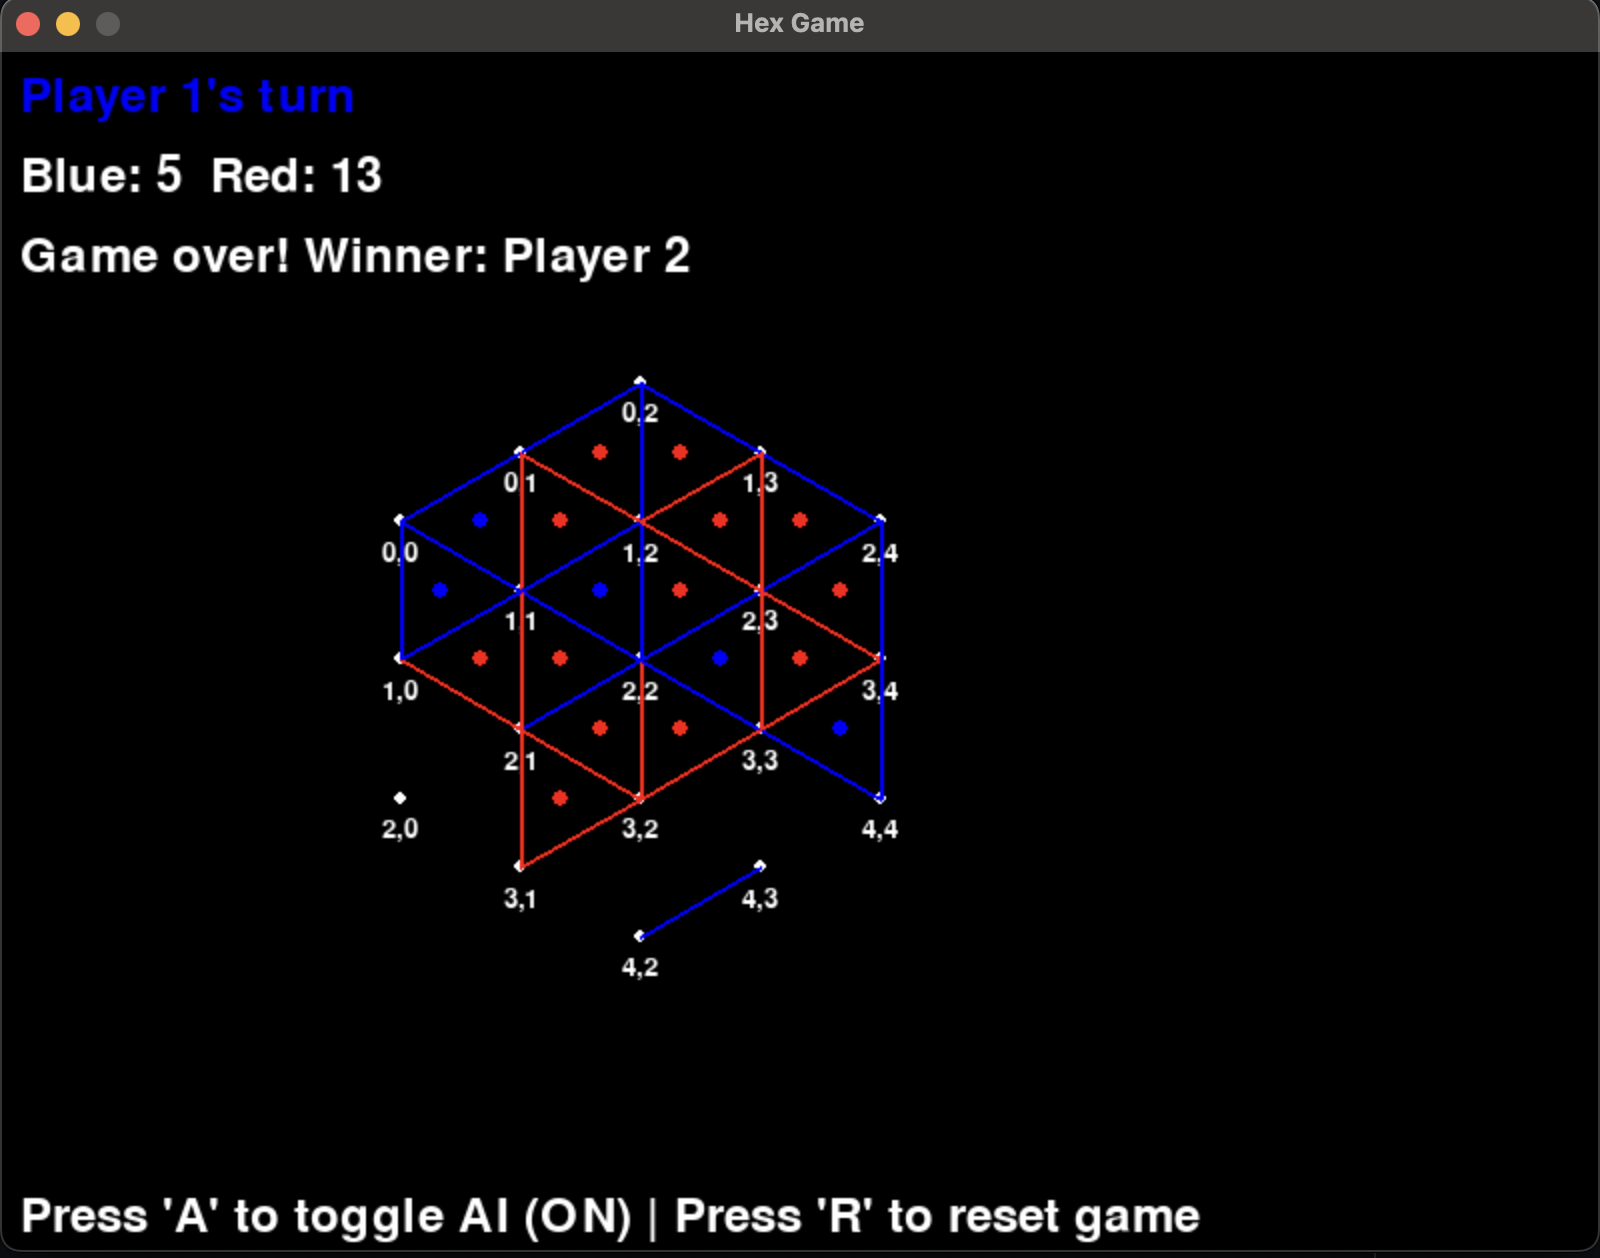
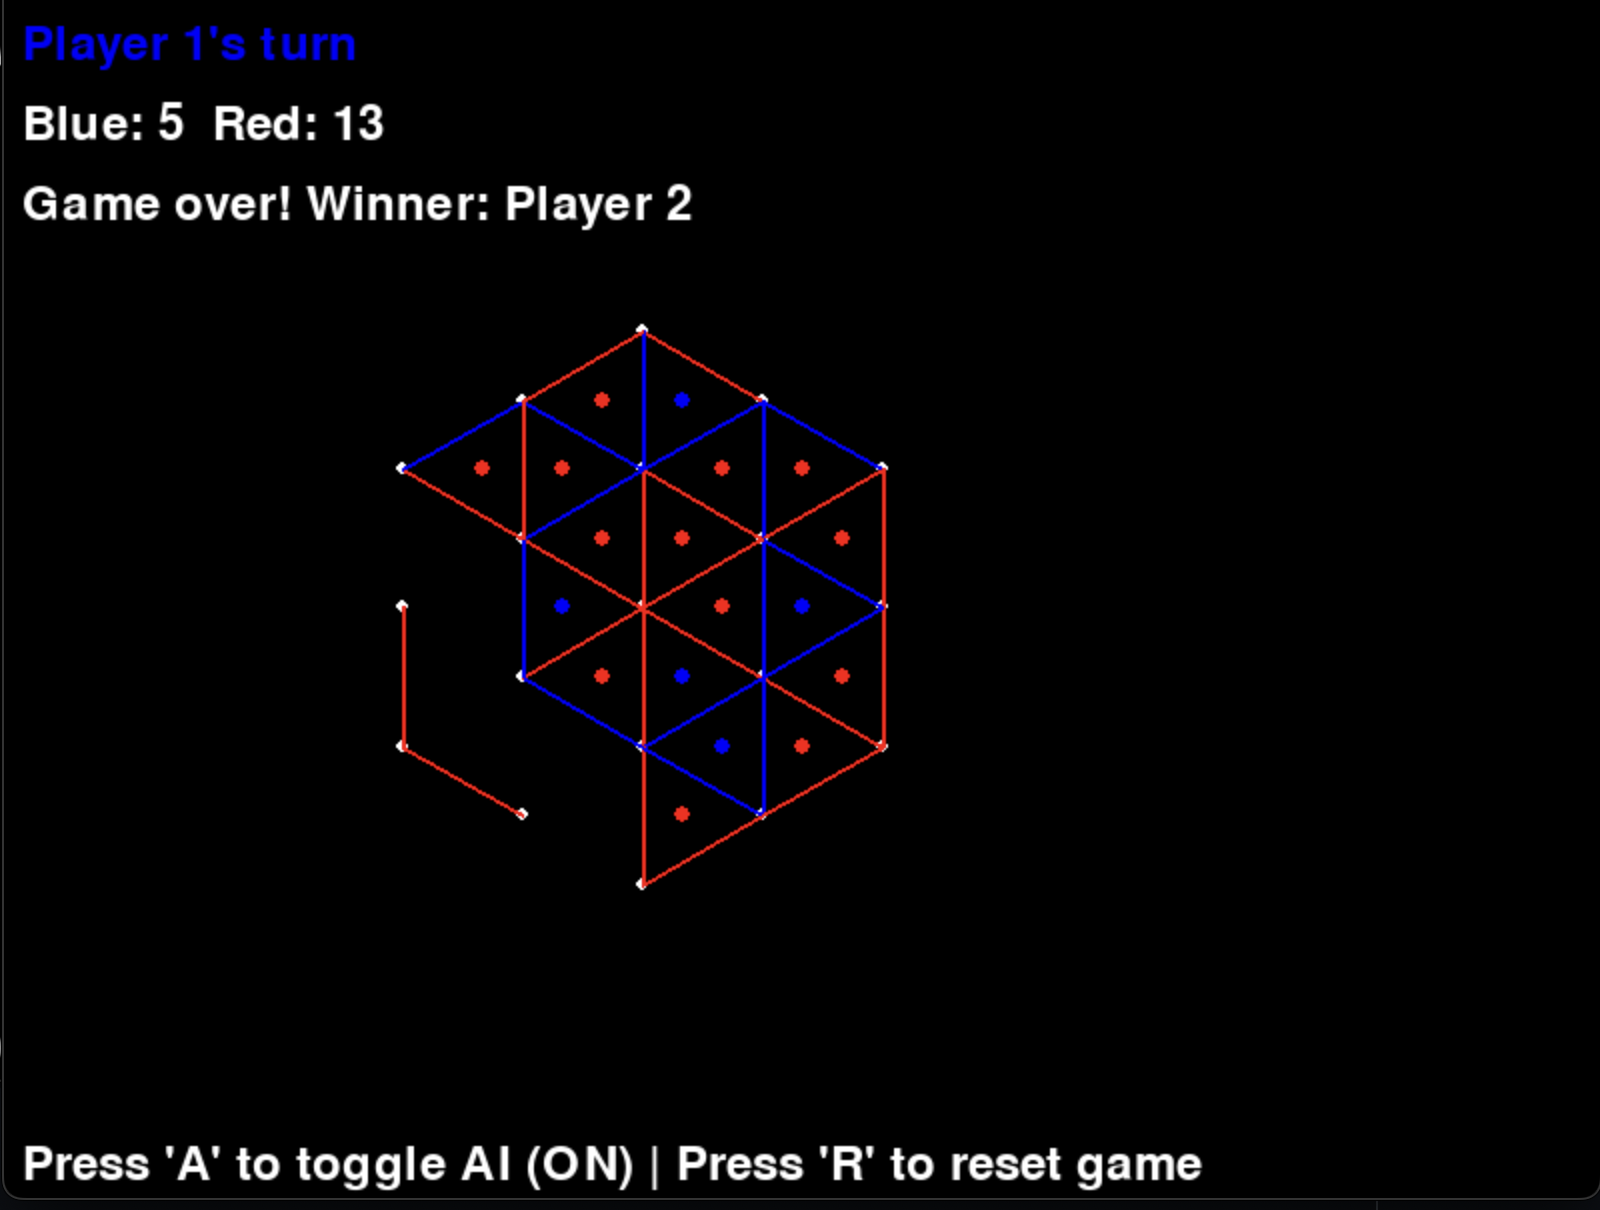
Removed numbers from renderer

Changed region(s): [[0.2188, 0.2752, 0.5625, 0.795], [0.0, 0.0, 1.0, 0.2446], [0.0, 0.9174, 1.0, 1.0]]

diff --git a/renderer.py b/renderer.py
@@ -67,11 +67,13 @@ class HexRenderer:
             pygame.draw.circle(self.screen, self.WHITE, (int(center[0]), int(center[1])), 3)
             
             # Draw coordinates
+            '''
             coord_text = f"{coord[0]},{coord[1]}"
             font = pygame.font.Font(None, 20)
             text_surface = font.render(coord_text, True, self.WHITE)
             text_rect = text_surface.get_rect(center=(center[0], center[1] + 15))
             self.screen.blit(text_surface, text_rect)
+            '''
         
         # Draw lines with player colors
         state = self.game.get_state()
